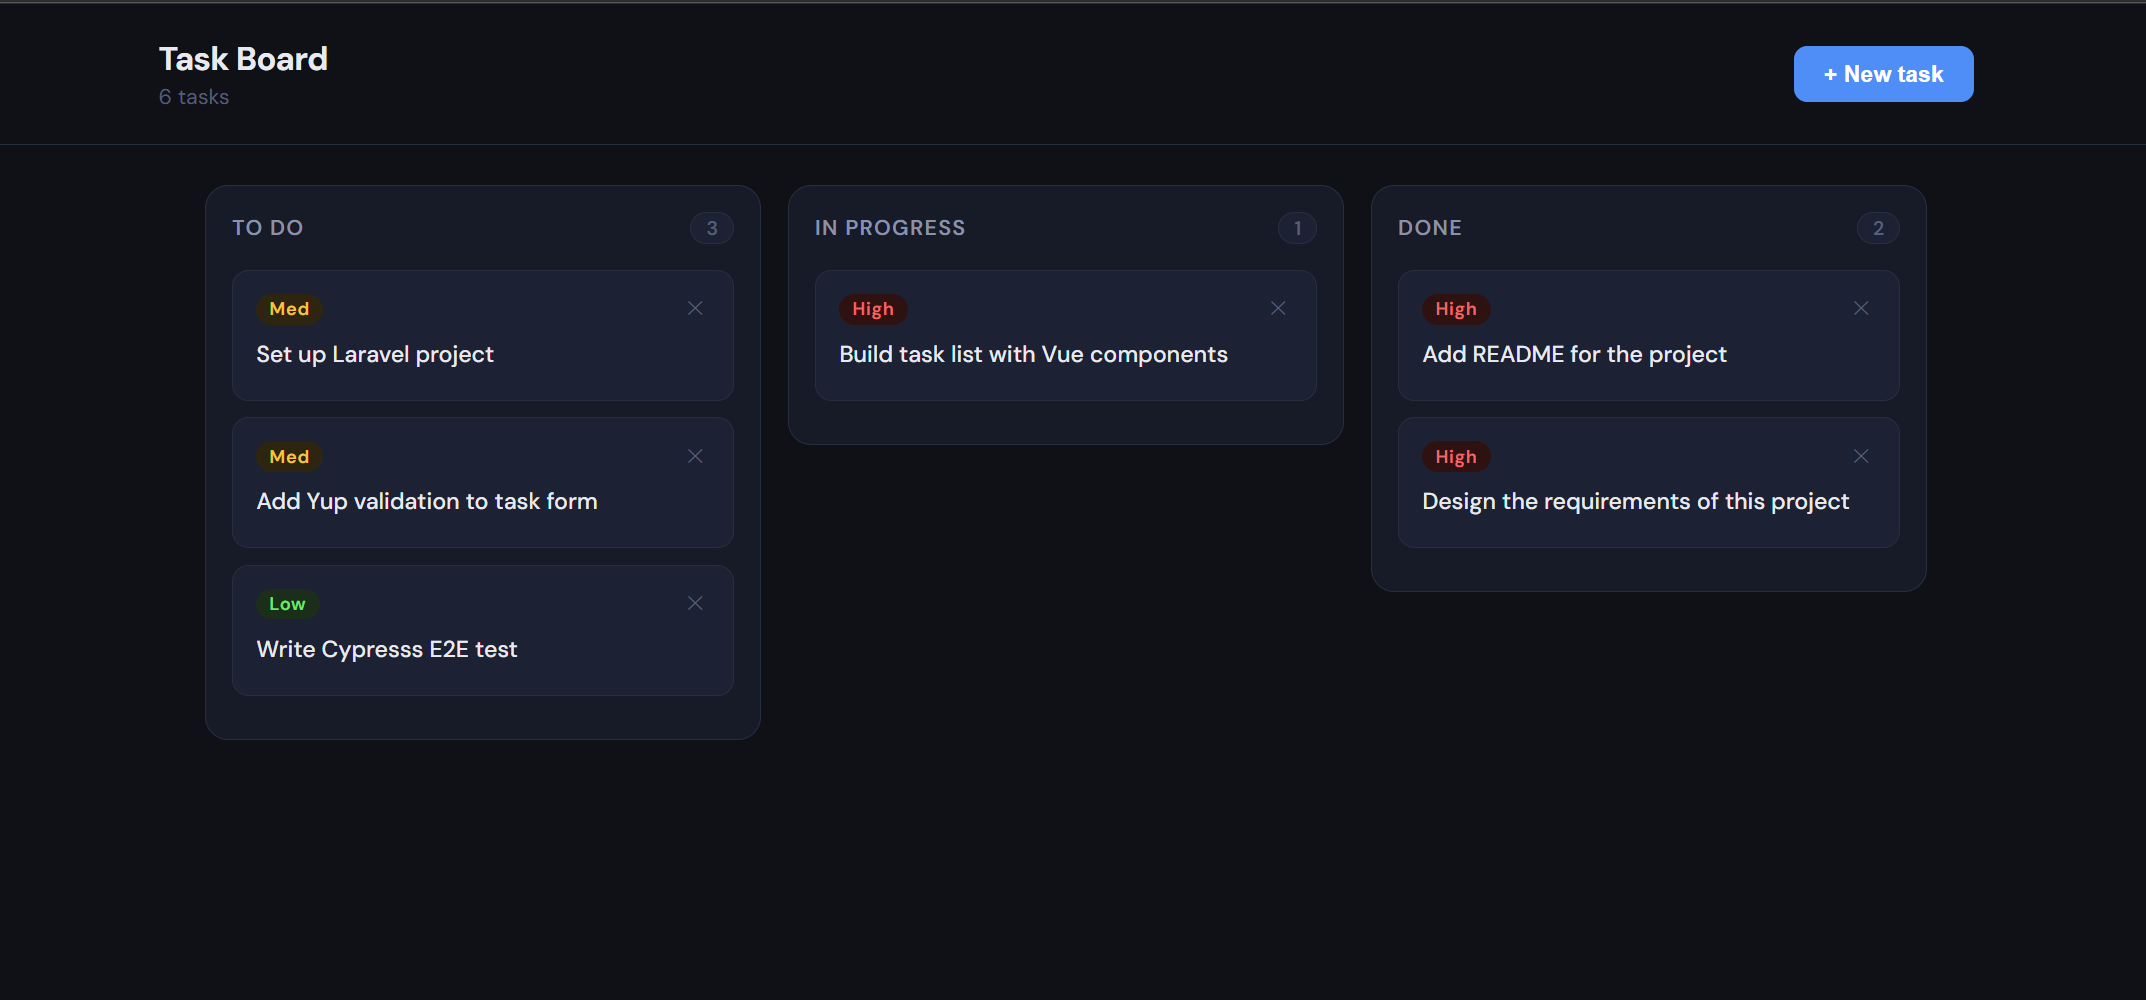
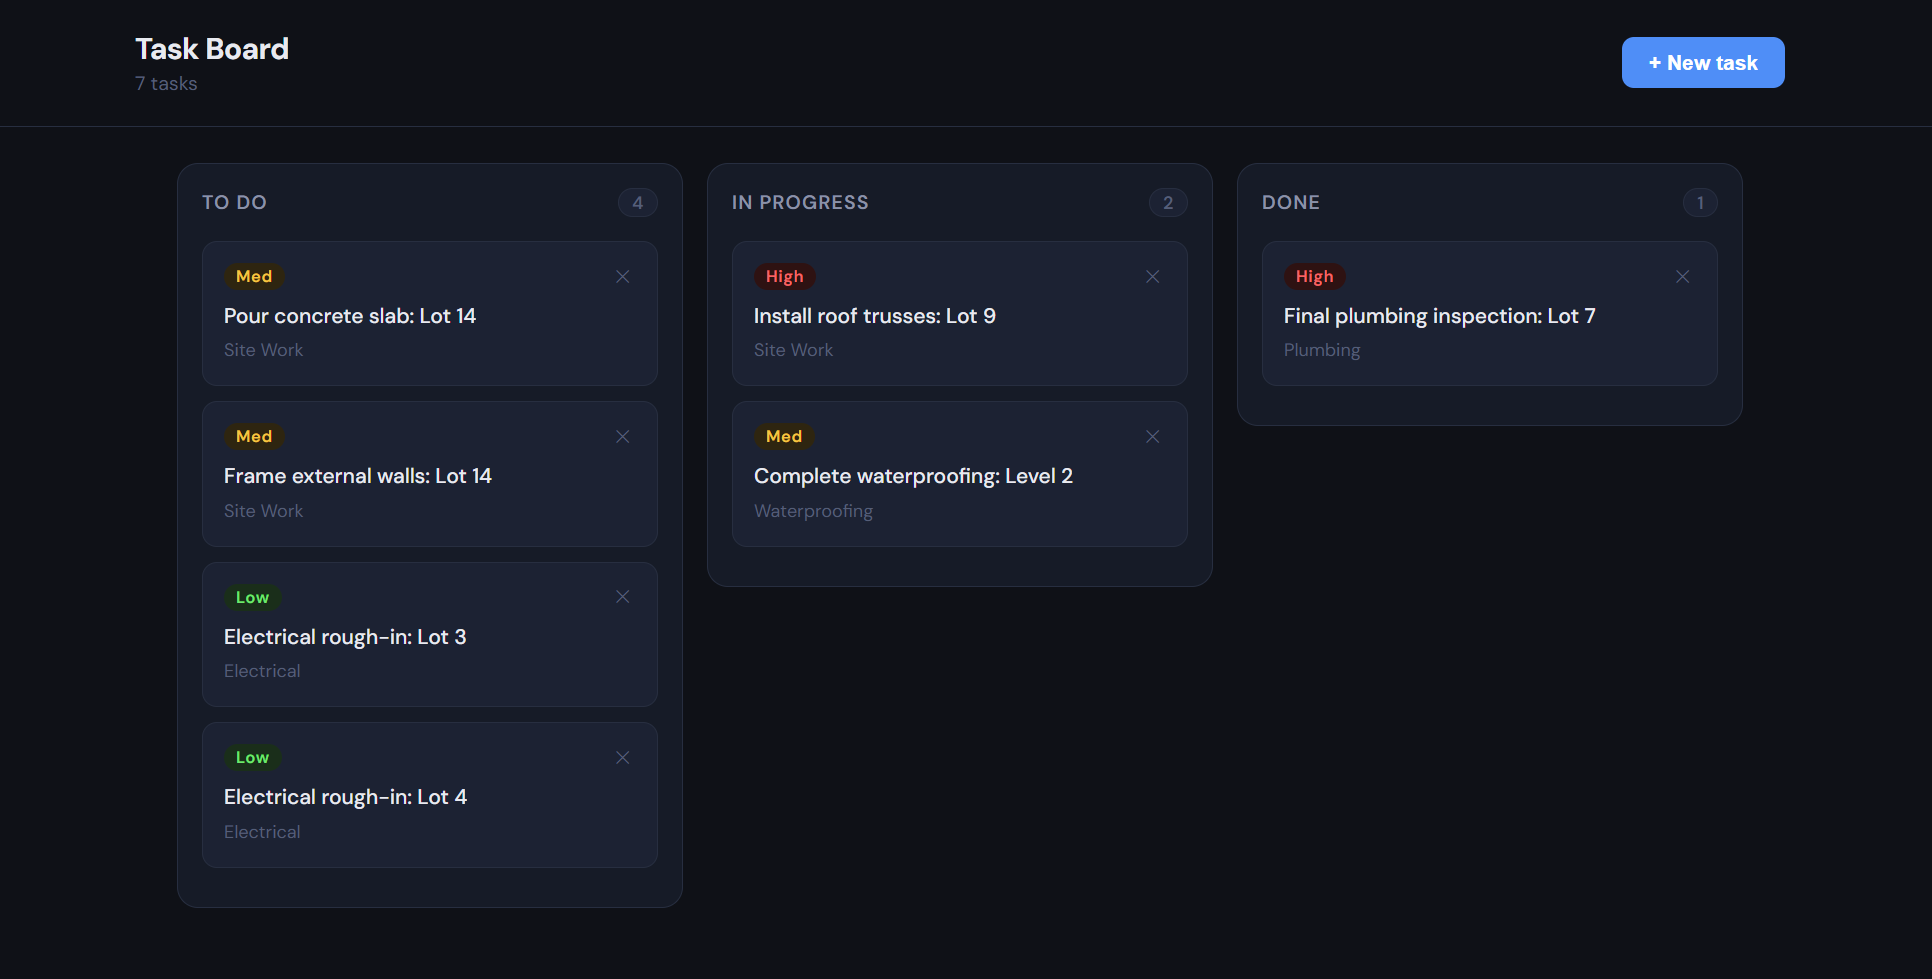
Add TaskFactory and TaskSeeder to seed mock data and cleanup unused Laravel classes

diff --git a/foreman-api/database/seeders/TaskSeeder.php b/foreman-api/database/seeders/TaskSeeder.php
@@ -1,0 +1,32 @@
+<?php
+
+namespace Database\Seeders;
+use App\Models\Task;
+use Illuminate\Database\Seeder;
+
+class TaskSeeder extends Seeder
+{
+    /**
+     * Run the database seeds.
+     */
+    public function run(): void
+    {
+        // Wipe existing rows first
+        Task::truncate();
+
+        // Seed exactly your 7 mock tasks
+        $tasks = [
+            ['title' => 'Pour concrete slab: Lot 14',       'description' => 'Site Work',      'priority' => 'medium', 'status' => 'todo'],
+            ['title' => 'Frame external walls: Lot 14',     'description' => 'Site Work',      'priority' => 'medium', 'status' => 'todo'],
+            ['title' => 'Install roof trusses: Lot 9',      'description' => 'Site Work',      'priority' => 'high', 'status' => 'inprogress'],
+            ['title' => 'Electrical rough-in: Lot 3',       'description' => 'Electrical',     'priority' => 'low', 'status' => 'todo'],
+            ['title' => 'Electrical rough-in: Lot 4',       'description' => 'Electrical',     'priority' => 'low', 'status' => 'todo'],
+            ['title' => 'Final plumbing inspection: Lot 7', 'description' => 'Plumbing',       'priority' => 'high', 'status' => 'done'],
+            ['title' => 'Complete waterproofing: Level 2',  'description' => 'Waterproofing',  'priority' => 'medium', 'status' => 'inprogress'],
+        ];
+
+        foreach ($tasks as $task) {
+            Task::create($task);
+        }
+    }
+}

diff --git a/foreman-api/database/factories/TaskFactory.php b/foreman-api/database/factories/TaskFactory.php
@@ -1,0 +1,35 @@
+<?php
+
+namespace Database\Factories;
+
+use App\Models\Task;
+use Illuminate\Database\Eloquent\Factories\Factory;
+
+/**
+ * @extends Factory<Task>
+ */
+class TaskFactory extends Factory
+{
+    /**
+     * Define the model's default state.
+     *
+     * @return array<string, mixed>
+     */
+    public function definition(): array
+    {
+        return [
+                'title' => $this->faker->randomElement([
+                'Pour concrete slab: Lot 14',
+                'Frame external walls: Lot 14',
+                'Install roof trusses: Lot 9',
+                'Electrical rough-in: Lot 3',
+                'Final plumbing inspection: Lot 7',
+                'Complete waterproofing: Level 2',
+                'Electrical rough-in: Lot 4',
+            ]),
+            'description' => $this->faker->sentence(),
+            'priority'    => $this->faker->randomElement(['low', 'medium', 'high']),
+            'status'      => $this->faker->randomElement(['todo', 'inprogress', 'done']),
+        ];
+    }
+}

diff --git a/foreman-api/database/seeders/DatabaseSeeder.php b/foreman-api/database/seeders/DatabaseSeeder.php
@@ -15,11 +15,8 @@ class DatabaseSeeder extends Seeder
      */
     public function run(): void
     {
-        // User::factory(10)->create();
-
-        User::factory()->create([
-            'name' => 'Test User',
-            'email' => 'test@example.com',
+        $this->call([
+            TaskSeeder::class,
         ]);
     }
 }

diff --git a/NOTES.md b/NOTES.md
@@ -381,3 +381,62 @@ Then, it can start:
 
   ...
 ```
+
+## Add Laravel Seeding
+
+### Step 1: Create the Factory
+
+Run:
+```
+php artisan make:factory TaskFactory --model=Task
+```
+
+Edit `database/factories/TaskFactory.php`.
+
+### Step 2: Create the Seeder
+
+Run:
+```
+php artisan make:seeder TaskSeeder
+```
+
+Edit `database/seeders/TaskSeeder.php`.
+
+### Step 3: Register the Seeder
+
+Register in `database/seeders/DatabaseSeeder.php`.
+
+### Step 4: Run it
+
+Run the seeder only:
+```
+php artisan db:seed --class=TaskSeeder
+```
+
+Or reset migrations and seed everything
+```
+php artisan migrate:fresh --seed
+```
+
+Output:
+```
+  Dropping all tables .................................................................................................... 6.04ms DONE
+
+   INFO  Preparing database.  
+
+  Creating migration table .............................................................................................. 10.23ms DONE
+
+   INFO  Running migrations.  
+
+  0001_01_01_000000_create_users_table .................................................................................. 32.65ms DONE
+  0001_01_01_000001_create_cache_table .................................................................................. 23.04ms DONE
+  0001_01_01_000002_create_jobs_table ................................................................................... 27.52ms DONE
+  2026_04_23_140601_create_tasks_table ................................................................................... 7.64ms DONE
+  2026_04_23_230355_create_personal_access_tokens_table ................................................................. 19.32ms DONE
+
+
+   INFO  Seeding database.  
+
+  Database\Seeders\TaskSeeder ................................................................................................ RUNNING  
+  Database\Seeders\TaskSeeder ............................................................................................. 65 ms DONE 
+  ```
